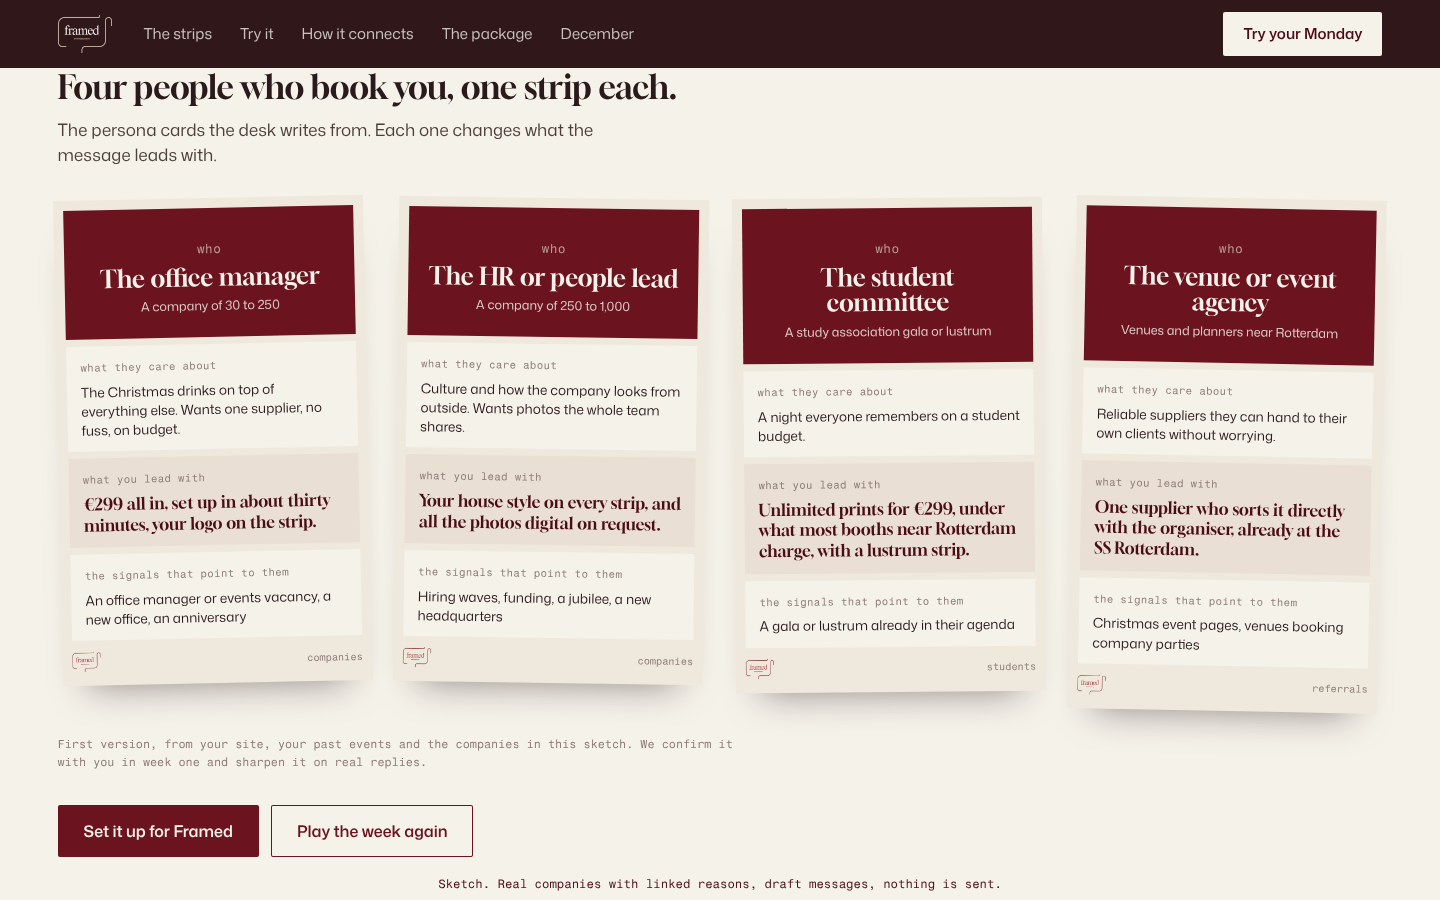
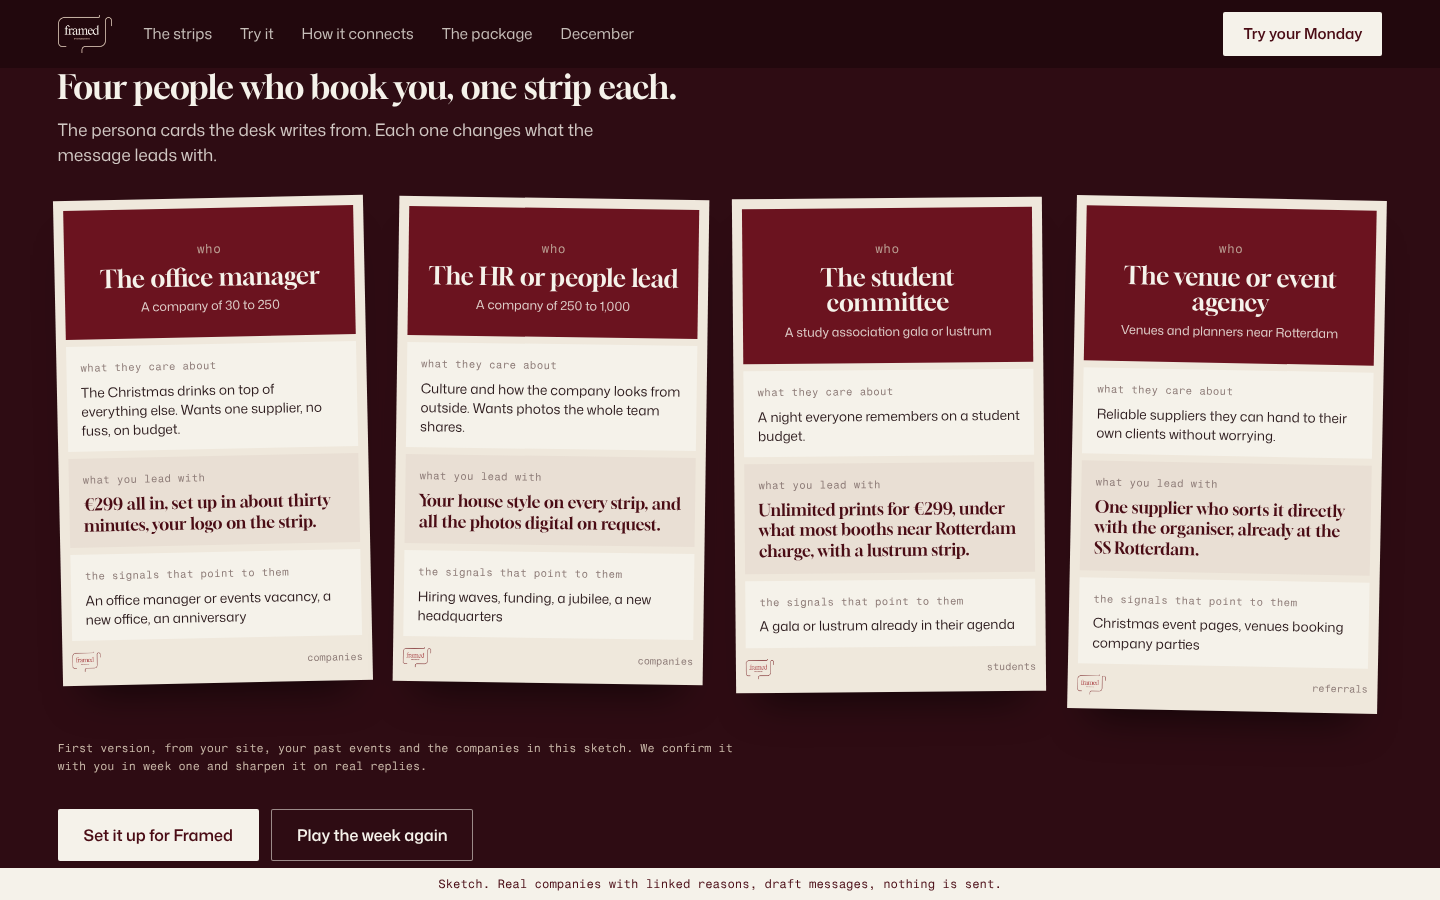
prototype: Framed, package section dark so the page passes the turns check, 2026-11-04
Claude-Session: https://claude.ai/code/session_01CwL7sdau95CiZ3kYi3DkV3

diff --git a/state/prototypes/framed/site/css/demo.css b/state/prototypes/framed/site/css/demo.css
@@ -145,22 +145,22 @@
 }
 
 /* ===== the package ===== */
-.pack{background:var(--cream);color:var(--ink);padding:120px var(--gut)}
+.pack{background:var(--night2);color:var(--cream);padding:120px var(--gut)}
 .pack .h2{max-width:13em}
-.pack .p{color:#4f3f3c}
+.pack .p{color:rgba(245,242,234,.82)}
 .pack-grid{display:grid;grid-template-columns:repeat(3,minmax(0,1fr));gap:clamp(24px,3vw,48px);margin-top:56px}
-.pk{border-top:3px solid var(--wine);padding-top:18px}
-.pk .no{font-family:var(--mono);font-size:12px;color:var(--wine)}
+.pk{border-top:3px solid var(--lilac);padding-top:18px}
+.pk .no{font-family:var(--mono);font-size:12px;color:var(--lilac)}
 .pk h3{font-family:var(--serif);font-weight:400;font-size:clamp(24px,2vw,30px);line-height:1.05;margin-top:6px}
-.pk p{font-size:15px;color:#4f3f3c;margin-top:10px}
+.pk p{font-size:15px;color:rgba(245,242,234,.82);margin-top:10px}
 .pk ul{list-style:none;margin-top:12px;display:grid;gap:7px;font-size:14.5px}
 .pk li{padding-left:16px;position:relative}
-.pk li::before{content:"";position:absolute;left:0;top:.62em;width:7px;height:7px;background:var(--wine)}
-.pk .out{font-family:var(--mono);font-size:11.5px;color:var(--muted);margin-top:14px}
+.pk li::before{content:"";position:absolute;left:0;top:.62em;width:7px;height:7px;background:var(--lilac)}
+.pk .out{font-family:var(--mono);font-size:11.5px;color:var(--sand);margin-top:14px}
 .personas{margin-top:80px}
 .personas .lead{display:grid;grid-template-columns:minmax(0,1fr) auto;gap:20px;align-items:end}
 .pstrips{display:grid;grid-template-columns:repeat(4,minmax(0,1fr));gap:clamp(14px,2vw,28px);margin-top:30px;align-items:start}
-.pstrip{background:var(--paper);padding:10px 10px 14px;box-shadow:0 26px 36px -26px rgba(43,26,28,.5)}
+.pstrip{background:var(--paper);color:var(--ink);padding:10px 10px 14px;box-shadow:0 30px 40px -24px rgba(0,0,0,.6)}
 .pstrip:nth-child(1){transform:rotate(-1.2deg)}.pstrip:nth-child(2){transform:rotate(.8deg)}.pstrip:nth-child(3){transform:rotate(-.5deg)}.pstrip:nth-child(4){transform:rotate(1.1deg)}
 .pf{background:var(--cream);padding:14px 14px 12px;margin-bottom:7px}
 .pf .n{font-family:var(--mono);font-size:10.5px;color:var(--muted);letter-spacing:.03em}
@@ -174,7 +174,7 @@
 .pstrip .ft{display:flex;justify-content:space-between;align-items:center;padding-top:4px}
 .pstrip .ft img{height:20px;width:auto;filter:brightness(.35) sepia(1) hue-rotate(310deg) saturate(3)}
 .pstrip .ft span{font-family:var(--mono);font-size:10px;color:var(--muted)}
-.pack .note{margin-top:26px;font-family:var(--mono);font-size:11.5px;color:var(--muted);max-width:60em}
+.pack .note{margin-top:30px;font-family:var(--mono);font-size:11.5px;color:var(--sand);max-width:60em}
 .pack .acts{display:flex;gap:12px;flex-wrap:wrap;margin-top:34px}
 @media (max-width:900px){
   .pack{padding:80px 20px}

diff --git a/state/prototypes/framed/site/index.html b/state/prototypes/framed/site/index.html
@@ -115,7 +115,7 @@
       <p class="out">LinkedIn first, one short bump, then quiet. A reply playbook for yes, a question, not now and stop</p></div>
   </div>
   <div class="personas">
-    <div class="lead"><div><h3 class="h3">Four people who book you, one strip each.</h3><p class="p" style="margin-top:12px;color:#4f3f3c">The persona cards the desk writes from. Each one changes what the message leads with.</p></div></div>
+    <div class="lead"><div><h3 class="h3">Four people who book you, one strip each.</h3><p class="p" style="margin-top:12px">The persona cards the desk writes from. Each one changes what the message leads with.</p></div></div>
     <div class="pstrips">
       <article class="pstrip"><div class="pf who"><p class="n">who</p><h4>The office manager</h4><p>A company of 30 to 250</p></div><div class="pf"><p class="n">what they care about</p><p class="t">The Christmas drinks on top of everything else. Wants one supplier, no fuss, on budget.</p></div><div class="pf say"><p class="n">what you lead with</p><p class="t">€299 all in, set up in about thirty minutes, your logo on the strip.</p></div><div class="pf"><p class="n">the signals that point to them</p><p class="t">An office manager or events vacancy, a new office, an anniversary</p></div><div class="ft"><img src="media/logo.png" alt="" width="800" height="563"><span>companies</span></div></article>
       <article class="pstrip"><div class="pf who"><p class="n">who</p><h4>The HR or people lead</h4><p>A company of 250 to 1,000</p></div><div class="pf"><p class="n">what they care about</p><p class="t">Culture and how the company looks from outside. Wants photos the whole team shares.</p></div><div class="pf say"><p class="n">what you lead with</p><p class="t">Your house style on every strip, and all the photos digital on request.</p></div><div class="pf"><p class="n">the signals that point to them</p><p class="t">Hiring waves, funding, a jubilee, a new headquarters</p></div><div class="ft"><img src="media/logo.png" alt="" width="800" height="563"><span>companies</span></div></article>
@@ -124,7 +124,7 @@
     </div>
     <p class="note">First version, from your site, your past events and the companies in this sketch. We confirm it with you in week one and sharpen it on real replies.</p>
   </div>
-  <div class="acts"><a class="btn wine go" href="#start">Set it up for Framed</a><a class="btn line dark go" href="#try">Play the week again</a></div>
+  <div class="acts"><a class="btn cream go" href="#start">Set it up for Framed</a><a class="btn line go" href="#try">Play the week again</a></div>
 </section>
 
 <section class="dec" id="december" aria-labelledby="dec-h">
